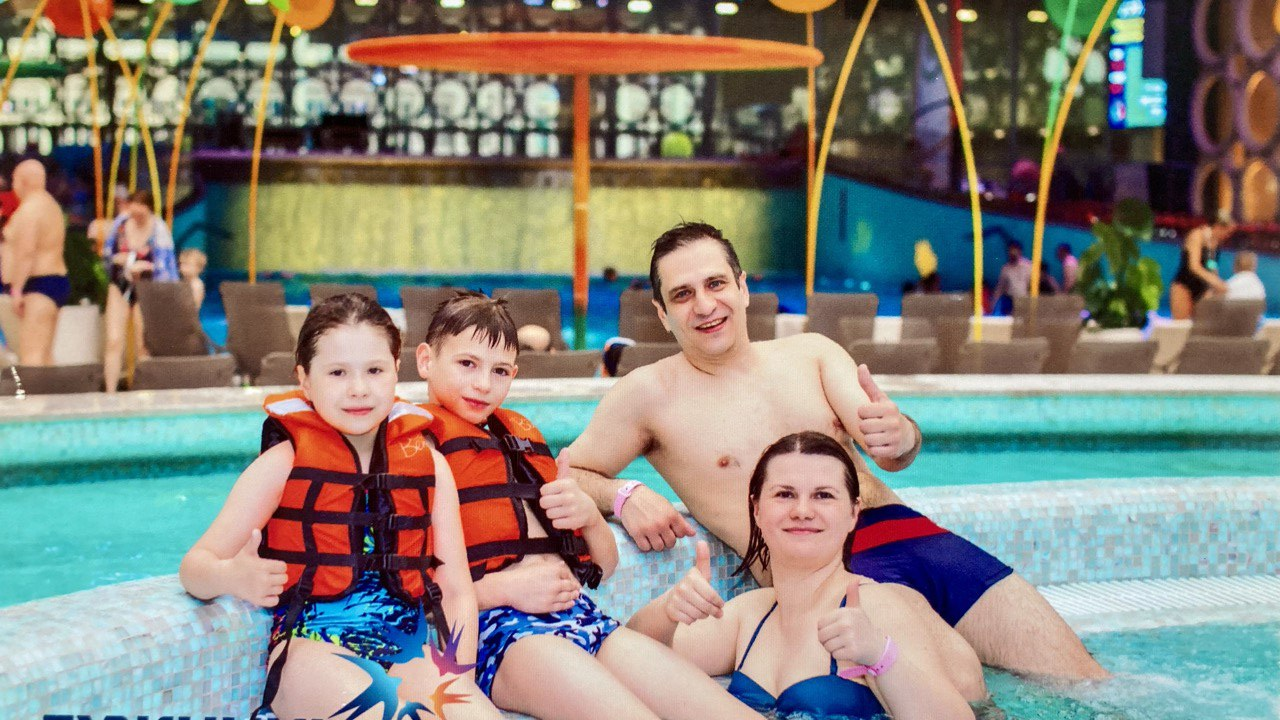
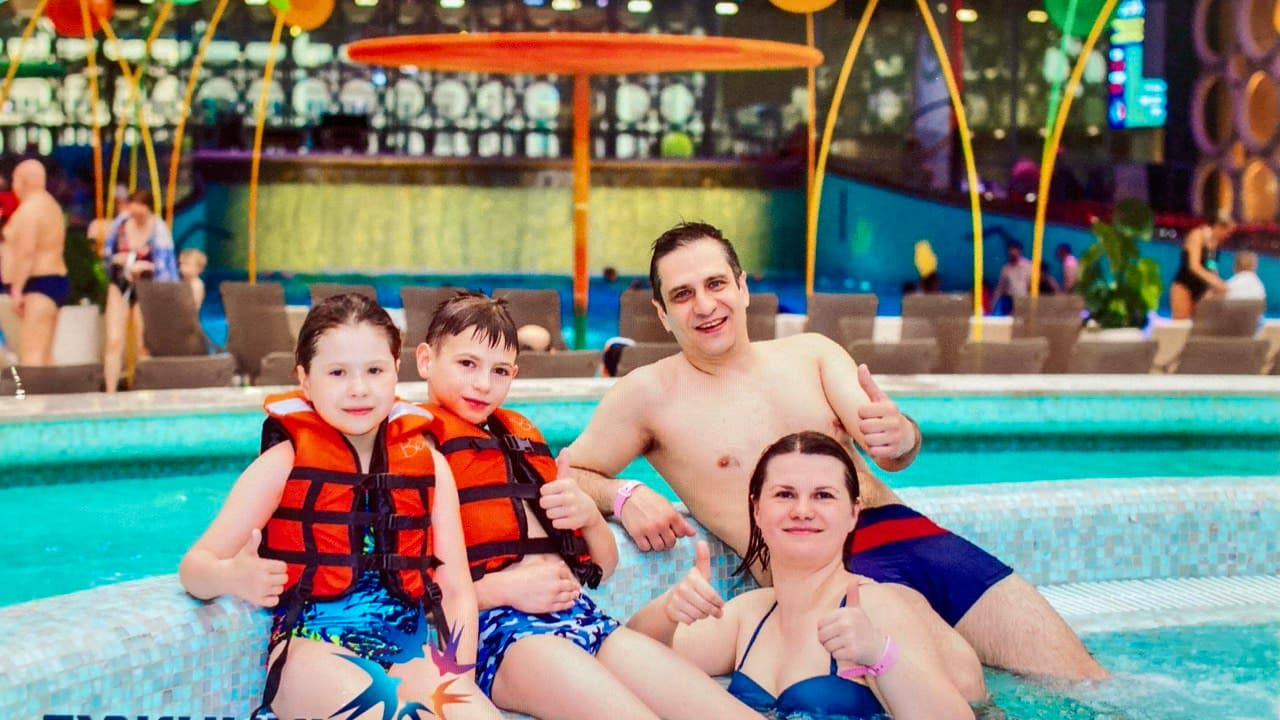
оптимизировал фото

diff --git a/style-card.css b/style-card.css
@@ -34,7 +34,7 @@
 }
 
 .card-front {
-    background-image: url('files/family.png');
+    background-image: url('files/family.jpg');
     top: 0;
 }
 
